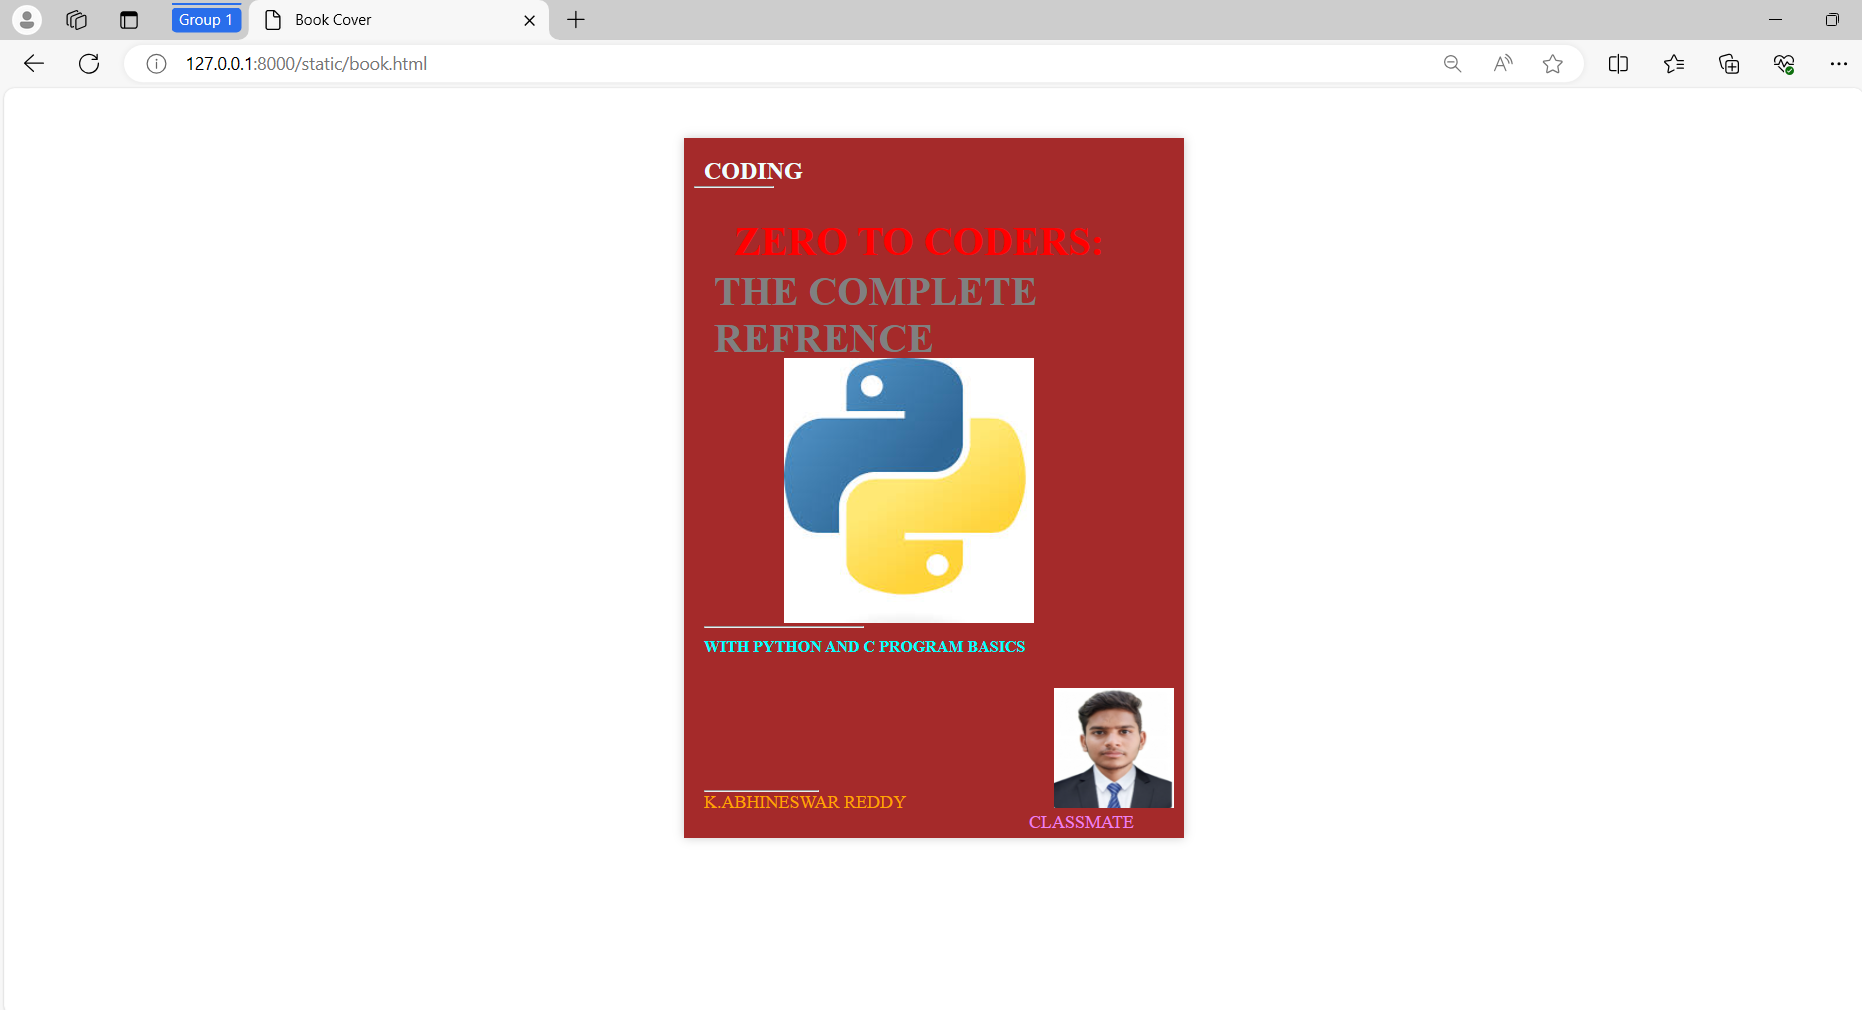
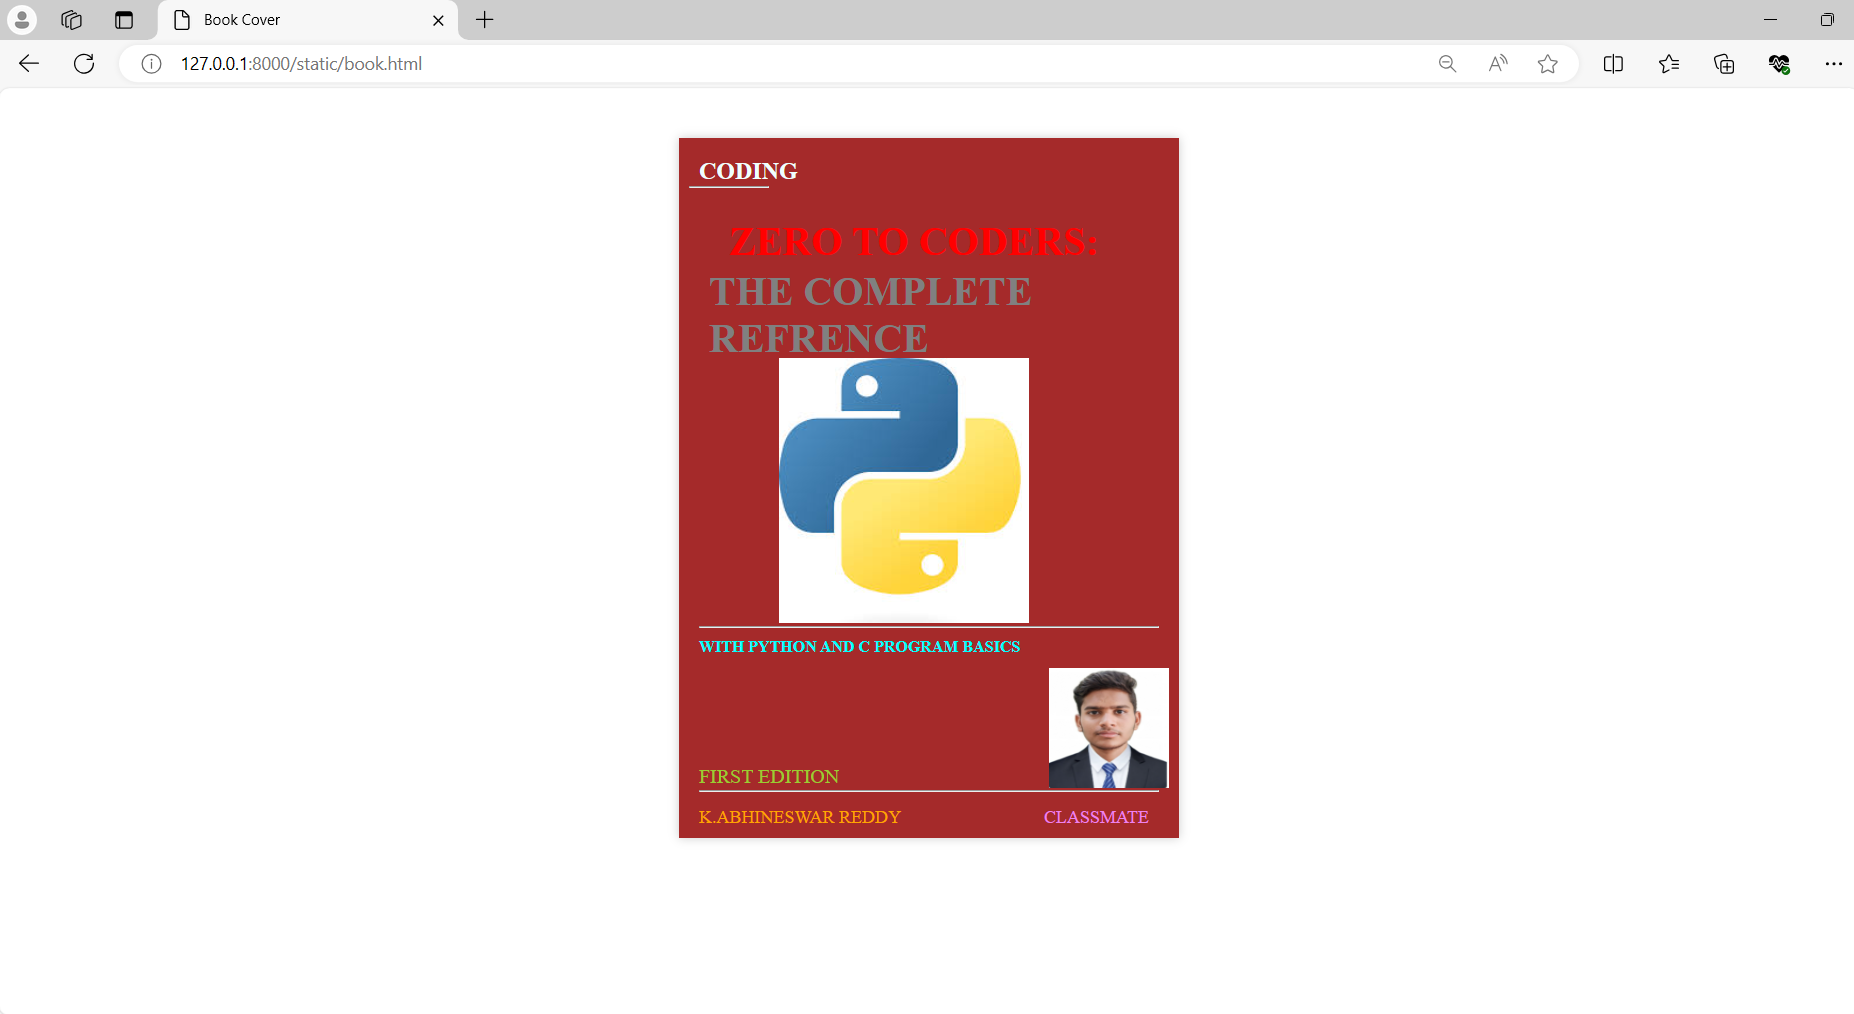
Success

diff --git a/abhi/bookapp/static/book.html b/abhi/bookapp/static/book.html
@@ -64,20 +64,27 @@
         position: absolute;
         top: 480px;
         left: 20px;
-        width: 160px;
+        width: 460px;
       }
       .book-cover .line3
       {
         position: absolute;
         bottom:38px;
         left: 20px;
-        width: 115px;
+        width: 460px;
+      }
+      .book-cover .edition{
+        position: absolute;
+        bottom:50px;
+        left:20px;
+        font-size: 20px;
+        color:yellowgreen;
       }
   
   
       .book-cover .author {
         position: absolute;
-        bottom: 25px;
+        bottom: 10px;
         left: 20px;
         font-size: 18px;
         color: orange;
@@ -85,15 +92,15 @@
   
       .book-cover .end {
         position: absolute;
-        bottom: 5px;
-        right: 50px;
+        bottom: 10px;
+        right: 30px;
         font-size: 18px;
         color:violet;
       }
       .book-cover .mypic
       {
         position: relative;
-        top:550px;
+        top:530px;
         left: 370px;
         width : 8px;
         height: 8px;
@@ -123,7 +130,7 @@
       <div class="mypic"><img src="abhi.jpg"width="120" height="120" ></div>
       <div class="image"><img src="python logo.jpeg"width="250" height="265" ></div>
       <div class="end">CLASSMATE</div>
-  
+      <div class="edition">FIRST EDITION</div>
       <div class="author">K.ABHINESWAR REDDY</div>
   
     </div>

diff --git a/README.md b/README.md
@@ -98,20 +98,27 @@ Publish the website in the LocalHost.
         position: absolute;
         top: 480px;
         left: 20px;
-        width: 160px;
+        width: 460px;
       }
       .book-cover .line3
       {
         position: absolute;
         bottom:38px;
         left: 20px;
-        width: 115px;
+        width: 460px;
+      }
+      .book-cover .edition{
+        position: absolute;
+        bottom:50px;
+        left:20px;
+        font-size: 20px;
+        color:yellowgreen;
       }
   
   
       .book-cover .author {
         position: absolute;
-        bottom: 25px;
+        bottom: 10px;
         left: 20px;
         font-size: 18px;
         color: orange;
@@ -119,15 +126,15 @@ Publish the website in the LocalHost.
   
       .book-cover .end {
         position: absolute;
-        bottom: 5px;
-        right: 50px;
+        bottom: 10px;
+        right: 30px;
         font-size: 18px;
         color:violet;
       }
       .book-cover .mypic
       {
         position: relative;
-        top:550px;
+        top:530px;
         left: 370px;
         width : 8px;
         height: 8px;
@@ -157,7 +164,7 @@ Publish the website in the LocalHost.
       <div class="mypic"><img src="abhi.jpg"width="120" height="120" ></div>
       <div class="image"><img src="python logo.jpeg"width="250" height="265" ></div>
       <div class="end">CLASSMATE</div>
-  
+      <div class="edition">FIRST EDITION</div>
       <div class="author">K.ABHINESWAR REDDY</div>
   
     </div>
